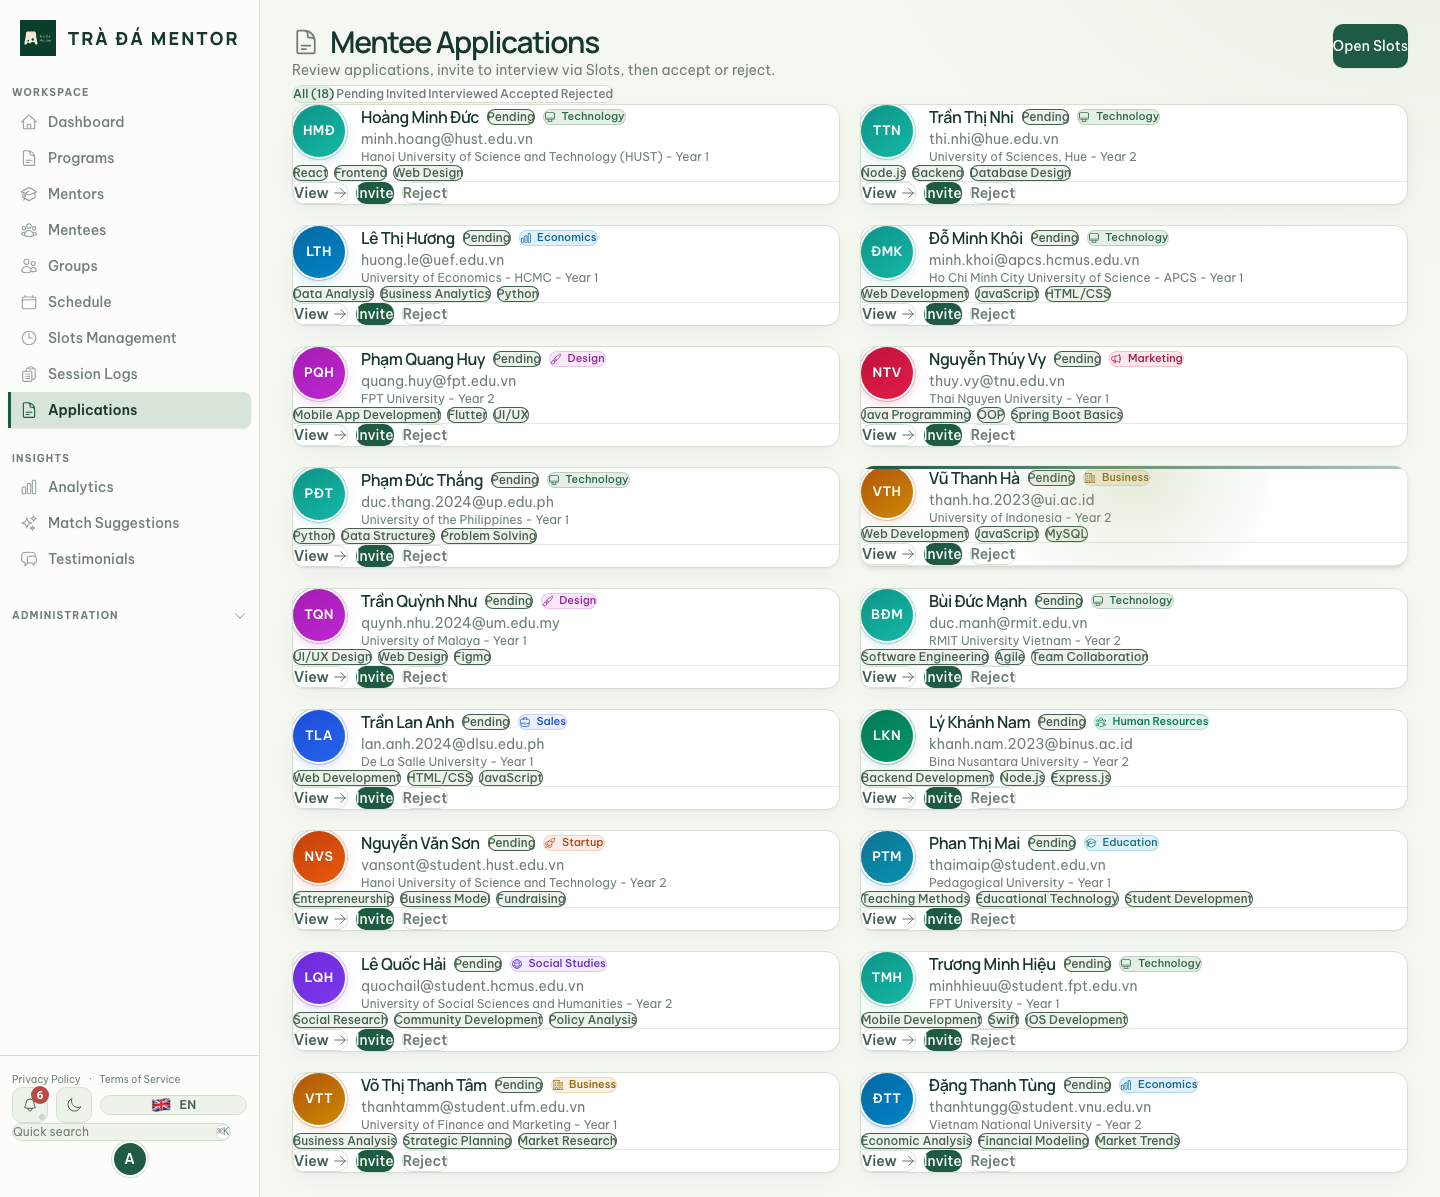
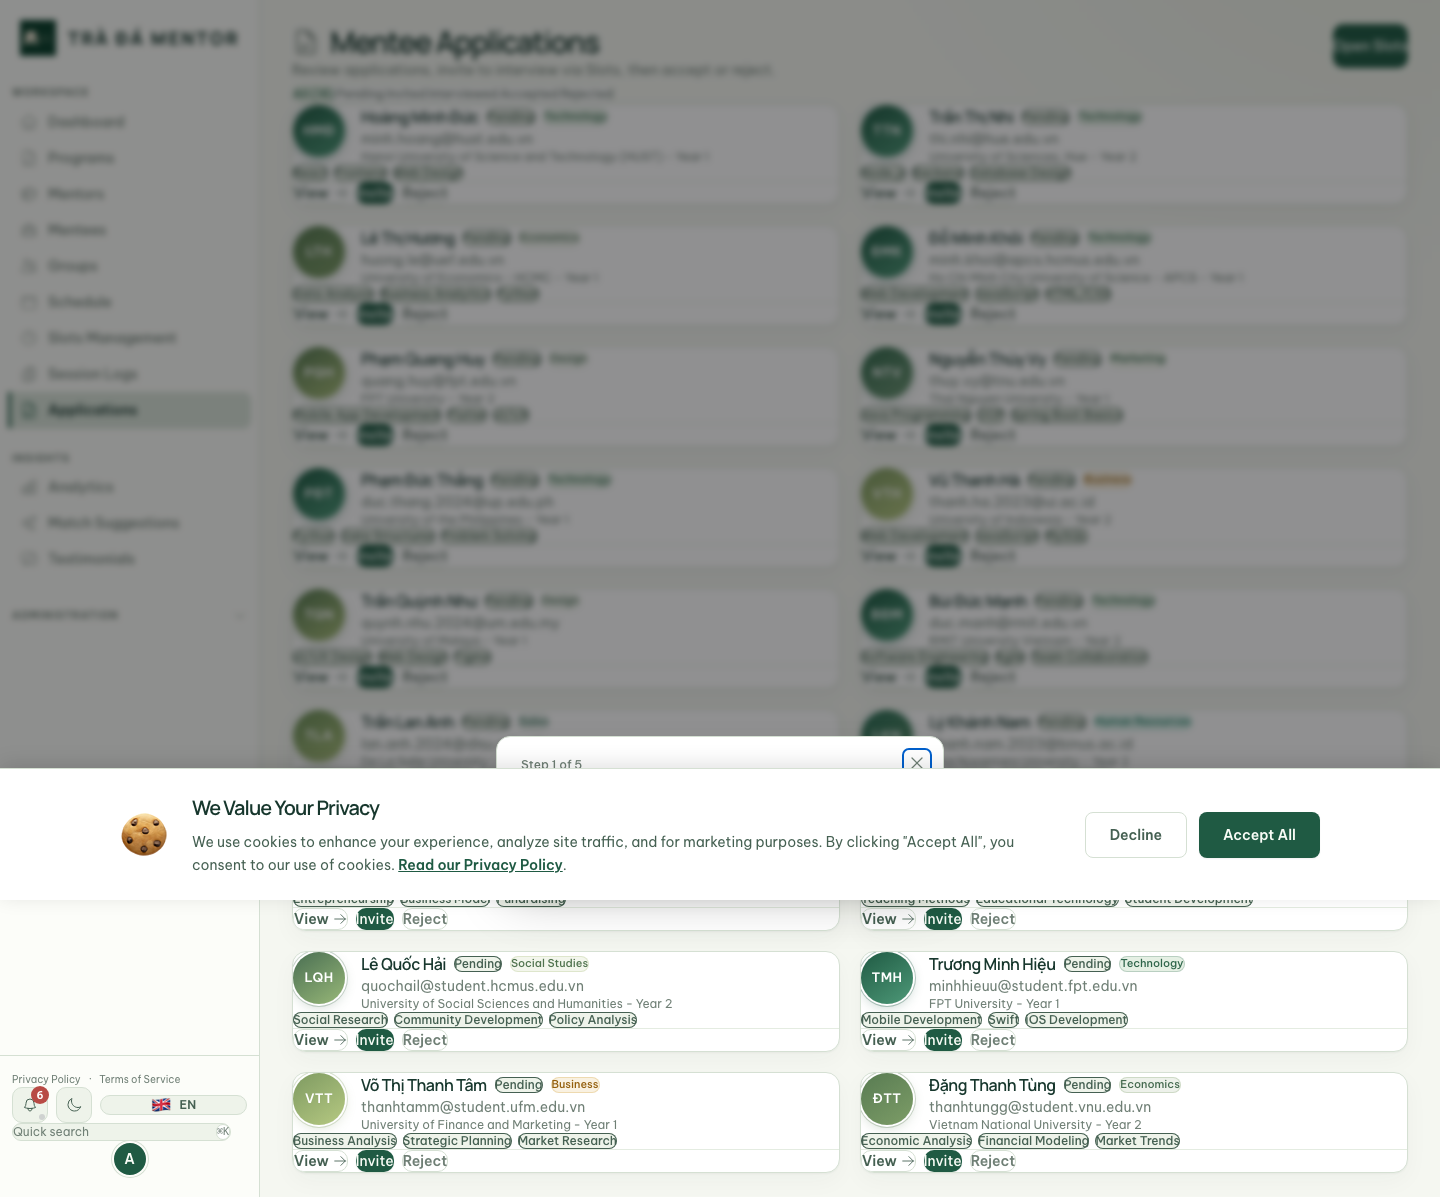
Polish green visual system and screenshot gallery

diff --git a/src/index.css b/src/index.css
@@ -561,95 +561,95 @@
   }
 
   .avatar--tone-0 {
-    --avatar-from: #0d9488;
-    --avatar-to: #0891b2;
-    --avatar-ring: color-mix(in srgb, #0d9488 30%, transparent);
+    --avatar-from: #1f5a43;
+    --avatar-to: #2f8060;
+    --avatar-ring: color-mix(in srgb, #1f5a43 30%, transparent);
   }
   .avatar--tone-1 {
-    --avatar-from: #0f766e;
-    --avatar-to: #047857;
-    --avatar-ring: color-mix(in srgb, #0f766e 30%, transparent);
+    --avatar-from: #356b4e;
+    --avatar-to: #5a8f6a;
+    --avatar-ring: color-mix(in srgb, #356b4e 30%, transparent);
   }
   .avatar--tone-2 {
-    --avatar-from: #0369a1;
-    --avatar-to: #0e7490;
-    --avatar-ring: color-mix(in srgb, #0369a1 30%, transparent);
+    --avatar-from: #587b52;
+    --avatar-to: #7d9d67;
+    --avatar-ring: color-mix(in srgb, #587b52 30%, transparent);
   }
   .avatar--tone-3 {
-    --avatar-from: #4f46e5;
-    --avatar-to: #6366f1;
-    --avatar-ring: color-mix(in srgb, #4f46e5 28%, transparent);
+    --avatar-from: #6c8f5a;
+    --avatar-to: #98b878;
+    --avatar-ring: color-mix(in srgb, #6c8f5a 28%, transparent);
   }
   .avatar--tone-4 {
-    --avatar-from: #7c3aed;
-    --avatar-to: #8b5cf6;
-    --avatar-ring: color-mix(in srgb, #7c3aed 28%, transparent);
+    --avatar-from: #496e52;
+    --avatar-to: #6e9876;
+    --avatar-ring: color-mix(in srgb, #496e52 28%, transparent);
   }
   .avatar--tone-5 {
-    --avatar-from: #be185d;
-    --avatar-to: #db2777;
-    --avatar-ring: color-mix(in srgb, #be185d 28%, transparent);
+    --avatar-from: #2b6d55;
+    --avatar-to: #4e9978;
+    --avatar-ring: color-mix(in srgb, #2b6d55 28%, transparent);
   }
   .avatar--tone-6 {
-    --avatar-from: #b45309;
-    --avatar-to: #d97706;
-    --avatar-ring: color-mix(in srgb, #b45309 28%, transparent);
+    --avatar-from: #7e9a61;
+    --avatar-to: #a8be7a;
+    --avatar-ring: color-mix(in srgb, #7e9a61 28%, transparent);
   }
   .avatar--tone-7 {
-    --avatar-from: #475569;
-    --avatar-to: #64748b;
-    --avatar-ring: color-mix(in srgb, #475569 28%, transparent);
+    --avatar-from: #526b61;
+    --avatar-to: #748c81;
+    --avatar-ring: color-mix(in srgb, #526b61 28%, transparent);
   }
 
   .avatar--track-tech {
-    --avatar-from: #0d9488;
-    --avatar-to: #14b8a6;
-    --avatar-ring: color-mix(in srgb, #0d9488 32%, transparent);
+    --avatar-from: #1f5a43;
+    --avatar-to: #4e9978;
+    --avatar-ring: color-mix(in srgb, #1f5a43 32%, transparent);
   }
   .avatar--track-economics {
-    --avatar-from: #0369a1;
-    --avatar-to: #0284c7;
-    --avatar-ring: color-mix(in srgb, #0369a1 30%, transparent);
+    --avatar-from: #587b52;
+    --avatar-to: #7d9d67;
+    --avatar-ring: color-mix(in srgb, #587b52 30%, transparent);
   }
   .avatar--track-marketing {
-    --avatar-from: #be123c;
-    --avatar-to: #e11d48;
-    --avatar-ring: color-mix(in srgb, #be123c 28%, transparent);
+    --avatar-from: #356b4e;
+    --avatar-to: #6e9876;
+    --avatar-ring: color-mix(in srgb, #356b4e 28%, transparent);
   }
   .avatar--track-hr {
-    --avatar-from: #047857;
-    --avatar-to: #059669;
-    --avatar-ring: color-mix(in srgb, #047857 30%, transparent);
+    --avatar-from: #2b6d55;
+    --avatar-to: #5a8f6a;
+    --avatar-ring: color-mix(in srgb, #2b6d55 30%, transparent);
   }
   .avatar--track-sales {
-    --avatar-from: #1d4ed8;
-    --avatar-to: #2563eb;
-    --avatar-ring: color-mix(in srgb, #1d4ed8 28%, transparent);
+    --avatar-from: #6c8f5a;
+    --avatar-to: #a8be7a;
+    --avatar-ring: color-mix(in srgb, #6c8f5a 28%, transparent);
   }
   .avatar--track-social {
-    --avatar-from: #6d28d9;
-    --avatar-to: #7c3aed;
-    --avatar-ring: color-mix(in srgb, #6d28d9 28%, transparent);
+    --avatar-from: #496e52;
+    --avatar-to: #98b878;
+    --avatar-ring: color-mix(in srgb, #496e52 28%, transparent);
   }
   .avatar--track-business {
-    --avatar-from: #b45309;
-    --avatar-to: #ca8a04;
-    --avatar-ring: color-mix(in srgb, #b45309 28%, transparent);
+    --avatar-from: #7e9a61;
+    --avatar-to: #b6c982;
+    --avatar-ring: color-mix(in srgb, #7e9a61 28%, transparent);
   }
   .avatar--track-education {
-    --avatar-from: #0e7490;
-    --avatar-to: #0891b2;
-    --avatar-ring: color-mix(in srgb, #0e7490 30%, transparent);
+    --avatar-from: #356b4e;
+    --avatar-to: #7d9d67;
+    --avatar-ring: color-mix(in srgb, #356b4e 30%, transparent);
   }
   .avatar--track-startup {
-    --avatar-from: #c2410c;
-    --avatar-to: #ea580c;
-    --avatar-ring: color-mix(in srgb, #c2410c 28%, transparent);
+    --avatar-from: #1f5a43;
+    --avatar-to: #6e9876;
+    --avatar-ring: color-mix(in srgb, #1f5a43 28%, transparent);
   }
   .avatar--track-design {
-    --avatar-from: #a21caf;
-    --avatar-to: #c026d3;
-    --avatar-ring: color-mix(in srgb, #a21caf 28%, transparent);
+    --avatar-from: #587b52;
+    --avatar-to: #a8be7a;
+    --avatar-ring: color-mix(in srgb, #587b52 28%, transparent);
   }
 
   /* Track pill */
@@ -705,14 +705,14 @@
     border-color: color-mix(in srgb, var(--accent) 22%, transparent);
   }
   .track-pill--economics {
-    background: color-mix(in srgb, #0284c7 12%, var(--bg-surface));
-    color: color-mix(in srgb, #0369a1 90%, var(--text-primary));
-    border-color: color-mix(in srgb, #0284c7 22%, transparent);
+    background: color-mix(in srgb, #7d9d67 14%, var(--bg-surface));
+    color: color-mix(in srgb, #496e52 90%, var(--text-primary));
+    border-color: color-mix(in srgb, #7d9d67 28%, transparent);
   }
   .track-pill--marketing {
-    background: color-mix(in srgb, #e11d48 10%, var(--bg-surface));
-    color: color-mix(in srgb, #be123c 88%, var(--text-primary));
-    border-color: color-mix(in srgb, #e11d48 20%, transparent);
+    background: color-mix(in srgb, #98b878 14%, var(--bg-surface));
+    color: color-mix(in srgb, #356b4e 88%, var(--text-primary));
+    border-color: color-mix(in srgb, #98b878 28%, transparent);
   }
   .track-pill--hr {
     background: color-mix(in srgb, #059669 12%, var(--bg-surface));
@@ -720,14 +720,14 @@
     border-color: color-mix(in srgb, #059669 22%, transparent);
   }
   .track-pill--sales {
-    background: color-mix(in srgb, #2563eb 10%, var(--bg-surface));
-    color: color-mix(in srgb, #1d4ed8 88%, var(--text-primary));
-    border-color: color-mix(in srgb, #2563eb 20%, transparent);
+    background: color-mix(in srgb, #6e9876 12%, var(--bg-surface));
+    color: color-mix(in srgb, #2b6d55 88%, var(--text-primary));
+    border-color: color-mix(in srgb, #6e9876 24%, transparent);
   }
   .track-pill--social {
-    background: color-mix(in srgb, #7c3aed 10%, var(--bg-surface));
-    color: color-mix(in srgb, #6d28d9 88%, var(--text-primary));
-    border-color: color-mix(in srgb, #7c3aed 20%, transparent);
+    background: color-mix(in srgb, #a8be7a 14%, var(--bg-surface));
+    color: color-mix(in srgb, #587b52 88%, var(--text-primary));
+    border-color: color-mix(in srgb, #a8be7a 28%, transparent);
   }
   .track-pill--business {
     background: color-mix(in srgb, #ca8a04 12%, var(--bg-surface));
@@ -735,19 +735,19 @@
     border-color: color-mix(in srgb, #ca8a04 22%, transparent);
   }
   .track-pill--education {
-    background: color-mix(in srgb, #0891b2 12%, var(--bg-surface));
-    color: color-mix(in srgb, #0e7490 90%, var(--text-primary));
-    border-color: color-mix(in srgb, #0891b2 22%, transparent);
+    background: color-mix(in srgb, #5a8f6a 14%, var(--bg-surface));
+    color: color-mix(in srgb, #356b4e 90%, var(--text-primary));
+    border-color: color-mix(in srgb, #5a8f6a 28%, transparent);
   }
   .track-pill--startup {
-    background: color-mix(in srgb, #ea580c 10%, var(--bg-surface));
-    color: color-mix(in srgb, #c2410c 88%, var(--text-primary));
-    border-color: color-mix(in srgb, #ea580c 20%, transparent);
+    background: color-mix(in srgb, #4e9978 12%, var(--bg-surface));
+    color: color-mix(in srgb, #1f5a43 88%, var(--text-primary));
+    border-color: color-mix(in srgb, #4e9978 24%, transparent);
   }
   .track-pill--design {
-    background: color-mix(in srgb, #c026d3 10%, var(--bg-surface));
-    color: color-mix(in srgb, #a21caf 88%, var(--text-primary));
-    border-color: color-mix(in srgb, #c026d3 20%, transparent);
+    background: color-mix(in srgb, #7d9d67 12%, var(--bg-surface));
+    color: color-mix(in srgb, #496e52 88%, var(--text-primary));
+    border-color: color-mix(in srgb, #7d9d67 24%, transparent);
   }
 
   .btn-ghost-danger {

diff --git a/src/components/TrackBadge.tsx b/src/components/TrackBadge.tsx
@@ -1,17 +1,4 @@
-import type { ComponentType } from 'react';
-import {
-  HiOutlineAcademicCap,
-  HiOutlineBriefcase,
-  HiOutlineBuildingOffice2,
-  HiOutlineChartBar,
-  HiOutlineComputerDesktop,
-  HiOutlineGlobeAlt,
-  HiOutlineMegaphone,
-  HiOutlinePaintBrush,
-  HiOutlineRocketLaunch,
-  HiOutlineUserGroup,
-} from 'react-icons/hi2';
-import { trackLabel, trackPillClassName, type TrackId } from '../lib/trackTheme';
+import { trackLabel, trackPillClassName } from '../lib/trackTheme';
 
 interface TrackBadgeProps {
   track?: string;
@@ -24,27 +11,11 @@ const sizeMap = {
   large: 'lg',
 } as const;
 
-const trackIcons: Record<TrackId, ComponentType<{ className?: string }>> = {
-  tech: HiOutlineComputerDesktop,
-  economics: HiOutlineChartBar,
-  marketing: HiOutlineMegaphone,
-  hr: HiOutlineUserGroup,
-  sales: HiOutlineBriefcase,
-  social: HiOutlineGlobeAlt,
-  business: HiOutlineBuildingOffice2,
-  education: HiOutlineAcademicCap,
-  startup: HiOutlineRocketLaunch,
-  design: HiOutlinePaintBrush,
-};
-
 const TrackBadge = ({ track = 'tech', size = 'medium' }: TrackBadgeProps) => {
-  const id = (track in trackIcons ? track : 'tech') as TrackId;
-  const Icon = trackIcons[id];
   const pillSize = sizeMap[size];
 
   return (
     <span className={trackPillClassName(track, pillSize)}>
-      <Icon className="track-pill__icon" aria-hidden />
       {trackLabel(track)}
     </span>
   );

diff --git a/README.md b/README.md
@@ -124,47 +124,77 @@ The gallery below was captured from the running application with Playwright usin
 
 ### Public and authentication surfaces
 
-| Program catalogue | Login and account entry |
-| --- | --- |
-| ![Program catalogue](./docs/screenshots/public-programs.png) | ![Login screen](./docs/screenshots/auth-login.png) |
+<p align="center">
+  <img src="./docs/screenshots/public-programs.png" alt="Program catalogue" width="920" />
+</p>
 
-The public catalogue gives prospective mentees a clear entry point, while the authentication surface supports localized email/password login, theme switching, password visibility, and development-only demo access.
+The public catalogue gives prospective mentees a clear entry point.
+
+<p align="center">
+  <img src="./docs/screenshots/auth-login.png" alt="Login screen" width="920" />
+</p>
+
+The authentication surface supports localized email/password login, theme switching, password visibility, and development-only demo access.
 
 ### Operational workspace
 
-![Dashboard](./docs/screenshots/product/dashboard.png)
+<p align="center">
+  <img src="./docs/screenshots/product/dashboard.png" alt="Dashboard" width="920" />
+</p>
 
 The dashboard is the operational command centre: capacity KPIs, next actions, Smart Match signals, quick navigation, and role-aware administration links are visible without hiding the primary workflow.
 
-| Mentor directory | Mentee directory |
-| --- | --- |
-| ![Mentor directory](./docs/screenshots/product/mentors.png) | ![Mentee directory](./docs/screenshots/product/mentees.png) |
+<p align="center">
+  <img src="./docs/screenshots/product/mentors.png" alt="Mentor directory" width="920" />
+</p>
+
+<p align="center">
+  <img src="./docs/screenshots/product/mentees.png" alt="Mentee directory" width="920" />
+</p>
 
 ### Lifecycle and scheduling
 
-| Applications | Availability slots |
-| --- | --- |
-| ![Applications workflow](./docs/screenshots/product/applications.png) | ![Availability slots](./docs/screenshots/product/availability-slots.png) |
+<p align="center">
+  <img src="./docs/screenshots/product/applications.png" alt="Applications workflow" width="920" />
+</p>
 
-| Schedule | Session CRM |
-| --- | --- |
-| ![Schedule](./docs/screenshots/product/schedule.png) | ![Session logs](./docs/screenshots/product/session-logs.png) |
+<p align="center">
+  <img src="./docs/screenshots/product/availability-slots.png" alt="Availability slots" width="920" />
+</p>
+
+<p align="center">
+  <img src="./docs/screenshots/product/schedule.png" alt="Schedule" width="920" />
+</p>
+
+<p align="center">
+  <img src="./docs/screenshots/product/session-logs.png" alt="Session logs" width="920" />
+</p>
 
 ### Intelligence and administration
 
-| Analytics | Explainable matching insights |
-| --- | --- |
-| ![Analytics](./docs/screenshots/product/analytics.png) | ![Matching insights](./docs/screenshots/product/matching-insights.png) |
+<p align="center">
+  <img src="./docs/screenshots/product/analytics.png" alt="Analytics" width="920" />
+</p>
 
-| Audit history | Data export |
-| --- | --- |
-| ![Audit history](./docs/screenshots/product/admin-audit.png) | ![Data export](./docs/screenshots/product/admin-export.png) |
+<p align="center">
+  <img src="./docs/screenshots/product/matching-insights.png" alt="Explainable matching insights" width="920" />
+</p>
+
+<p align="center">
+  <img src="./docs/screenshots/product/admin-audit.png" alt="Audit history" width="920" />
+</p>
+
+<p align="center">
+  <img src="./docs/screenshots/product/admin-export.png" alt="Data export" width="920" />
+</p>
 
 ### Responsive experience
 
-| Mobile dashboard | Mobile schedule |
-| --- | --- |
-| ![Mobile dashboard](./docs/screenshots/mobile/dashboard.png) | ![Mobile schedule](./docs/screenshots/mobile/schedule.png) |
+<p align="center">
+  <img src="./docs/screenshots/mobile/login.png" alt="Mobile login" width="280" />
+  <img src="./docs/screenshots/mobile/dashboard.png" alt="Mobile dashboard" width="280" />
+  <img src="./docs/screenshots/mobile/schedule.png" alt="Mobile schedule" width="280" />
+</p>
 
 ### Product surface map
 
